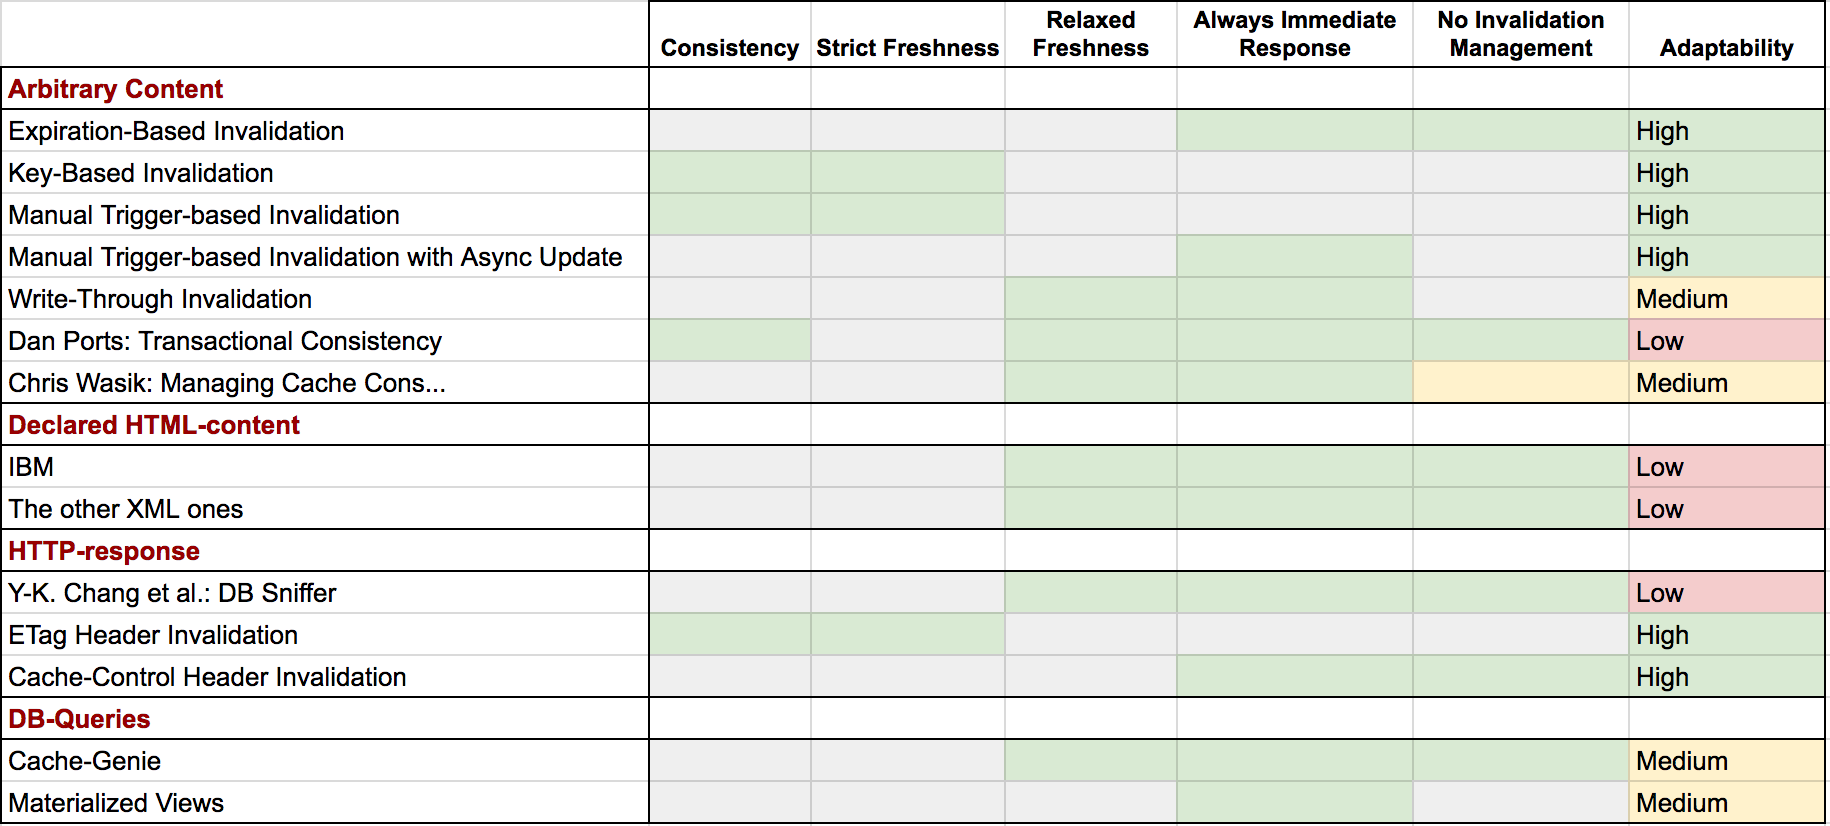
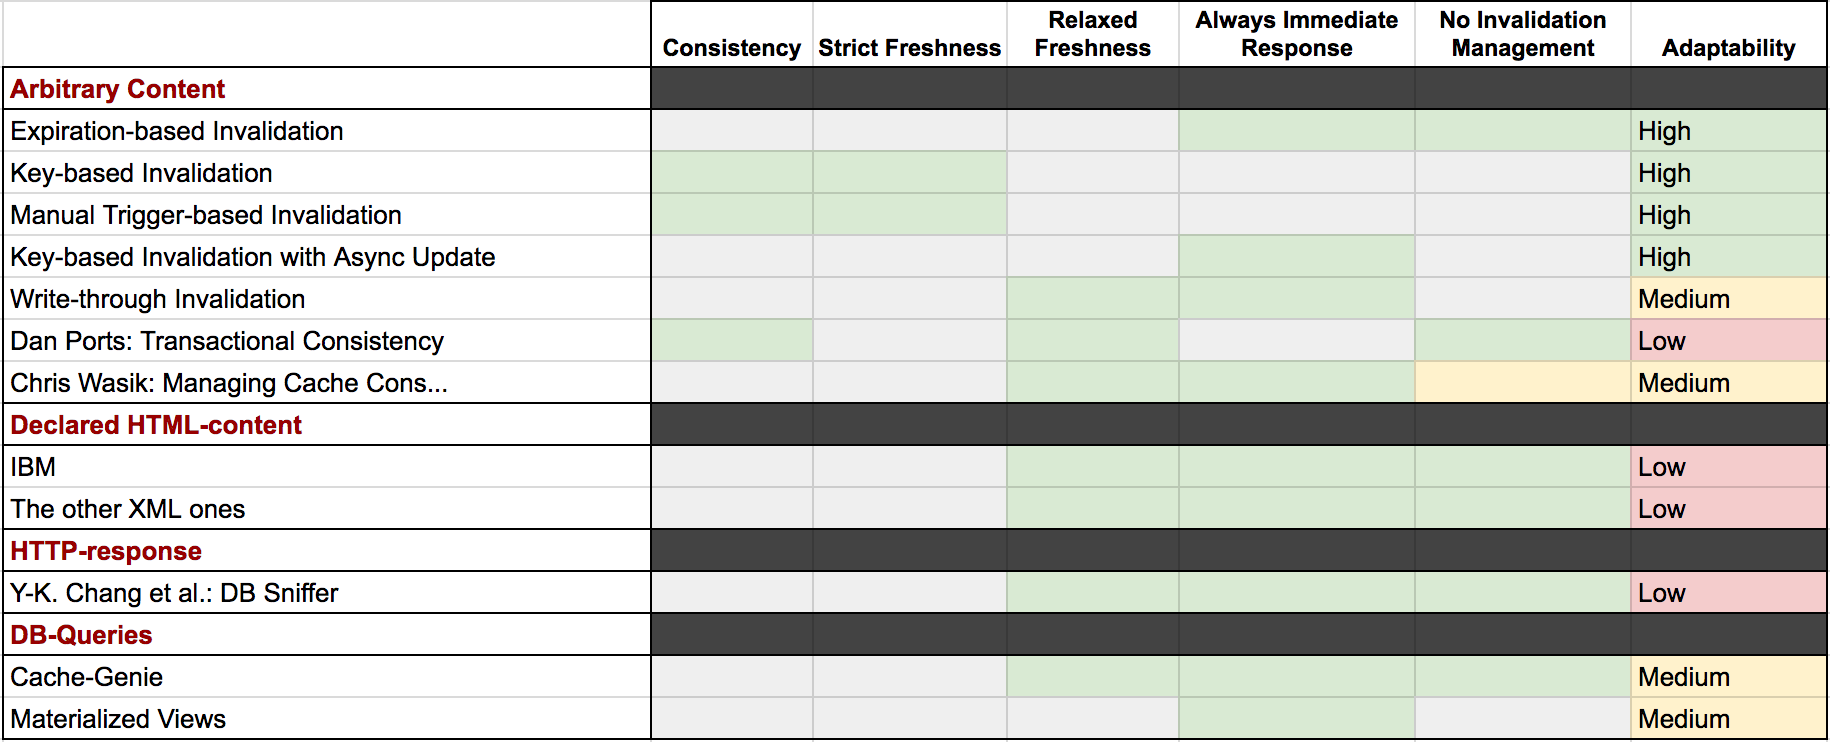
Clearer trigger-based async update invalidation

diff --git a/writing/4-cachable-functions.tex b/writing/4-cachable-functions.tex
@@ -23,6 +23,8 @@ From these approaches the expiration-based invalidation technique has the advant
 
 If we consider use case example~\ref{example:assignment-computations}, the statistical information of current assignments are updated at the same frequency as the closed assignments, and if we want to keep the cached values for the current information up to date, we also need to update all non current information. This is not desirable with relation to efficiency since the CPU will be busy in time proportional to the time of the computing the statistical information for the assignment and the total number of assignments on the platform. In other words the number of CPU's we need to occupy for this job can be calculated by $\frac{\Delta t_c \cdot n_c \cdot u_c}{t_d}$, where $\Delta t_c$ is the time of the computation, $n_c$ is the number of computations, $\Delta u_c$ is the number of updates per 24 hours and $\Delta t_d$ is the number of seconds per 24 hours. Considering the example - if we have 500 assignments on the platform and we want to update the information every 10 minutes with a computation time of 30 seconds each, then we occupy a CPU in $\frac{60 \cdot 500 \cdot \frac{10 \cdot 60}{60 \cdot 60 \cdot 24}}{60 \cdot 60 \cdot 24}\text{ occupied CPU's} = 50\text{ occupied CPU's}$. If the amount of computational power isn't a problem, the expiration-based approach would be the best solution, but that is not the case of this thesis, where efficiency is a requirement.
 
+The alternative with high adaptability is to use manually placed asynchronous invalidation triggers. This approach has the advantage that the values are only invalidated (and thereby recomputed) when a trigger is invoked, which means the developer has the opportunity to optimize the approach to only invalidate when it is relevant to the user e.g. when the cached value are supposed to change. Although this can be seen as an opportunity it can also be seen as a burden for the developer to maintain these manual triggers. And by having asynchronous invalidations, the user is presented with a stale value, and only if the value is requested again after the update, the user receives the fresh value. If we consider example~\ref{example:assignment-computations} it is not unlikely that the teacher looks at an old assignment some time after it has been closed. Using asynchronous triggers the teacher is presented immediately with a stale value, but this stale value ??
+
 
 \begin{example}
 \label{example:assignment-computations}

diff --git a/writing/3-caching-approaches.tex b/writing/3-caching-approaches.tex
@@ -102,7 +102,7 @@ Having a static key also introduces a challenge related to concurrency since we 
 \subsection{Trigger-based Invalidation with Asynchronous Update}
 \label{subsec:trigger-based-invalidation-with-asynchronous-update}
 
-We can extend the trigger-based invalidation and update the cached value asynchronously and serve an old/stale value while computing the new. This way we always get an immediate response by giving up strict freshness and consistency. To give this guarantee fully the user have to wait for the computation the first time the value is requested if the application haven't `'pre-heated'` the cache i.e. included a build step before deployment that computes all cached values.
+We can extend the trigger-based invalidation by always serving the newest value from the cache and afterwards update the value asynchronously if it is stale. This way we always get an immediate response by giving up strict freshness and consistency. To give this guarantee fully the user have to wait for the computation the first time the value is requested if the application haven't `'pre-heated'` the cache i.e. included a build step before deployment that computes all cached values.
 
 The timeline of this extension is as on figure~\ref{fig:timeline:trigger-based-with-asynchronous-update}. A naive implementation of this technique would be as the trigger-based seen in code snippet~\ref{code:manual-trigger-invalidation} with the modification that the system updates the value asynchronously instead of synchronously if no fresh value is found in the cache. The snippet for this can be found in appendix~\ref{appendix:code:trigger-based-invalidation-with-asynchronous-update}.
 
